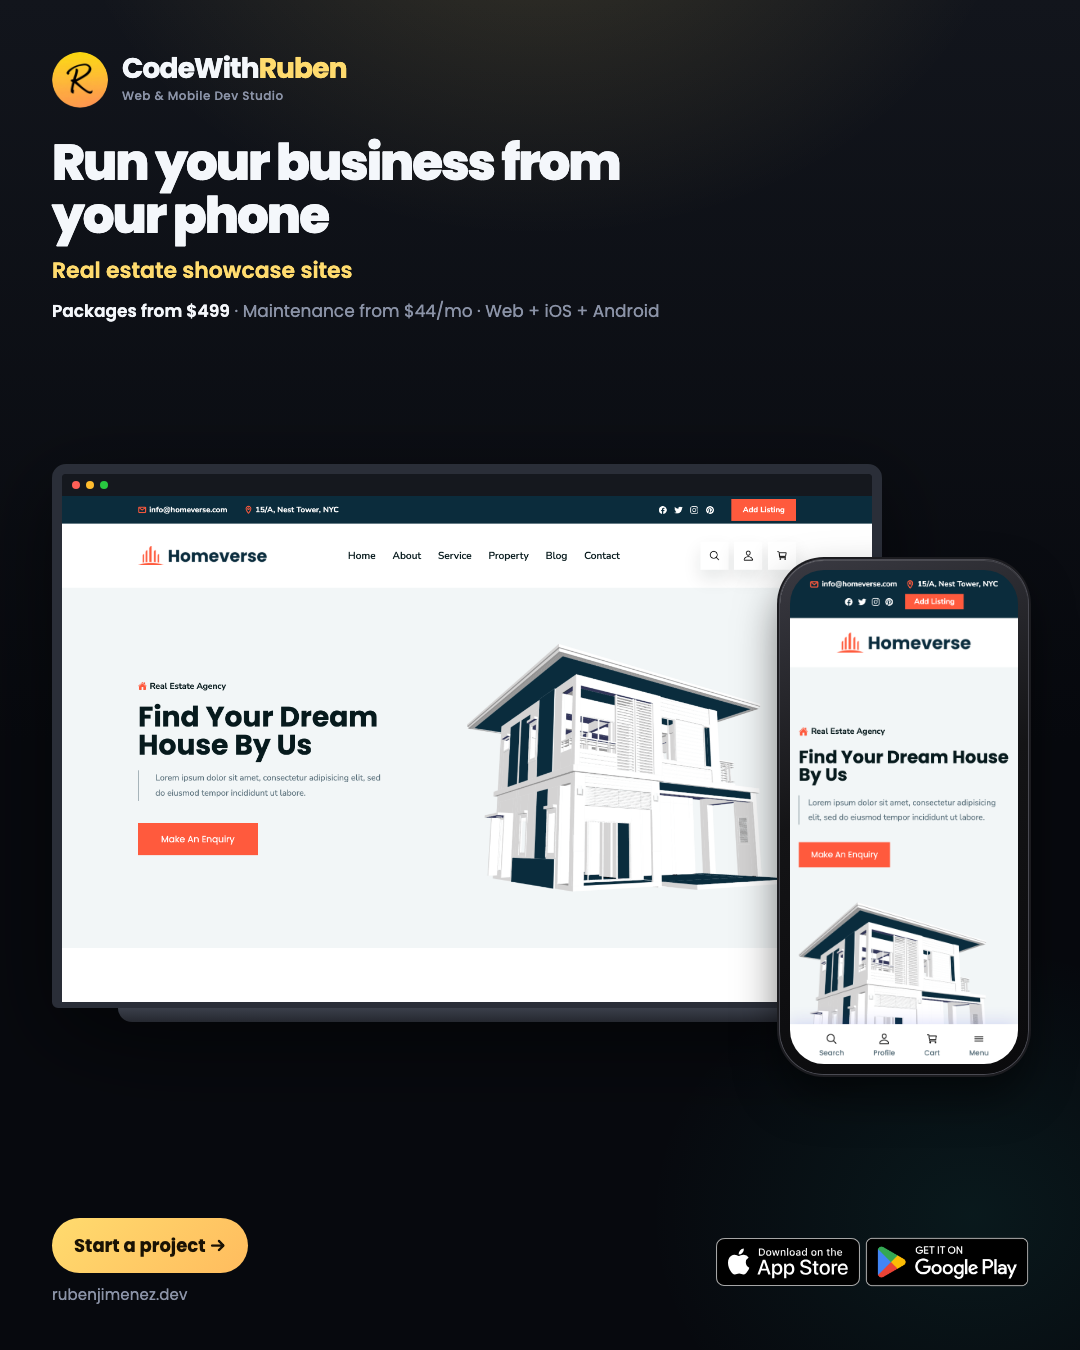
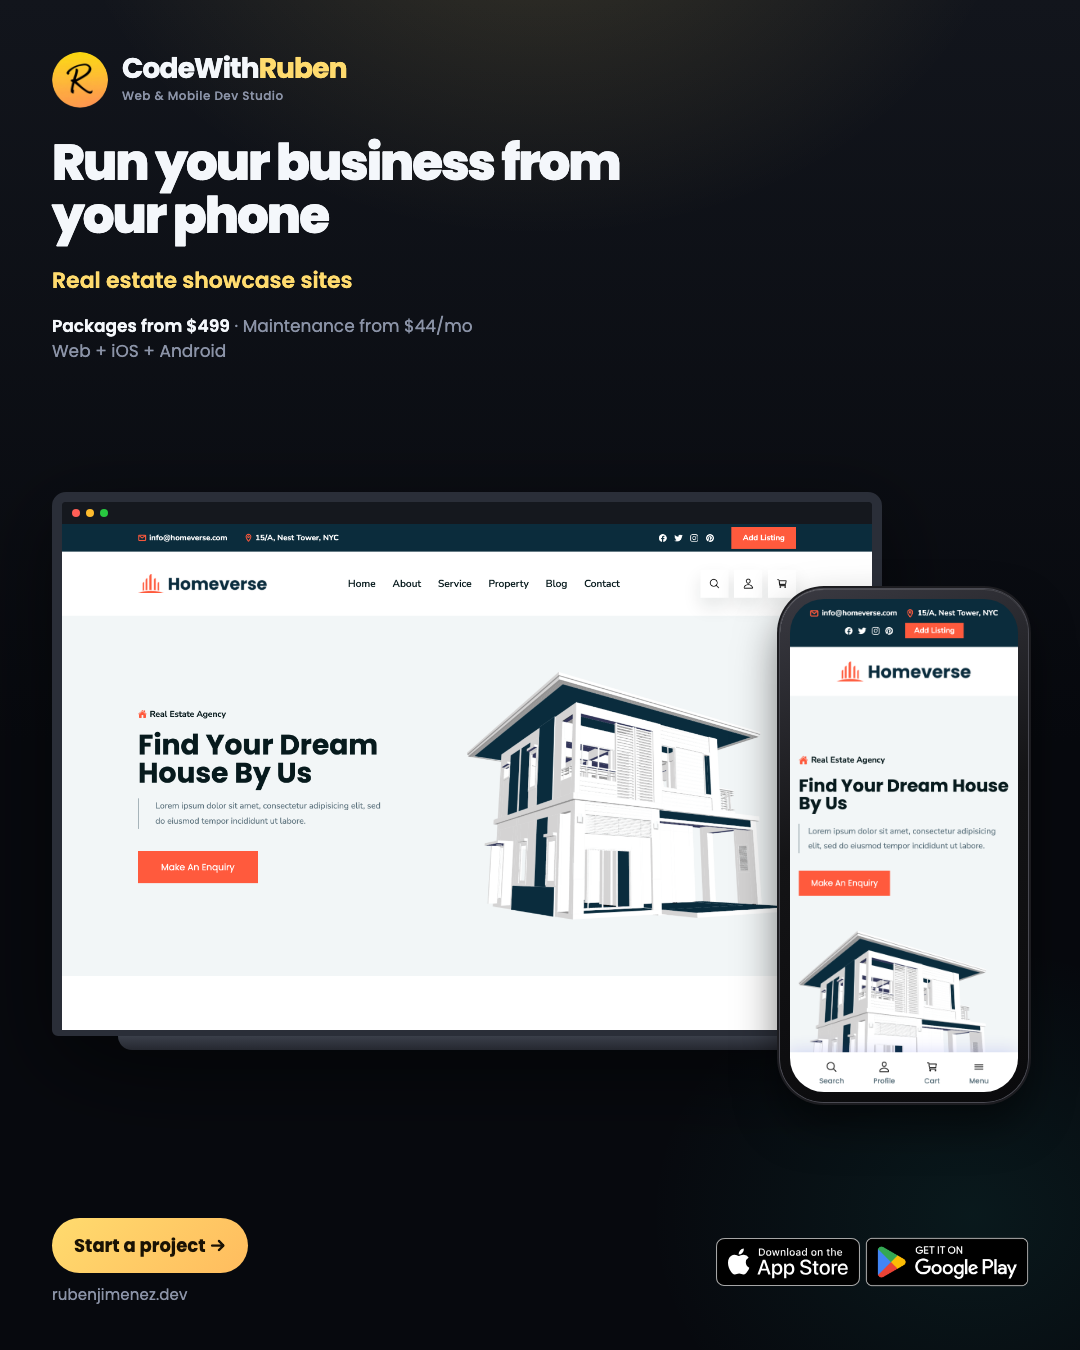
adding new ig post content

diff --git a/examples/instagram/index.html b/examples/instagram/index.html
@@ -37,7 +37,7 @@
       <div class="copy">
         <h2>Run your business from your phone</h2>
         <p class="niche">Booking apps for trade crews</p>
-        <p class="proof"><strong>Packages from $499</strong> · Maintenance from $44/mo · Web + iOS + Android</p>
+        <p class="proof"><strong>Packages from $499</strong> · Maintenance from $44/mo<br>Web + iOS + Android</p>
       </div>
       <div class="devices">
         <div class="stage">
@@ -79,7 +79,7 @@
       <div class="copy">
         <h2>Run your business from your phone</h2>
         <p class="niche">Booking apps for trade crews</p>
-        <p class="proof"><strong>Packages from $499</strong> · Maintenance from $44/mo<br>Fresno-based studio · Web + iOS + Android · Live admin dashboards</p>
+        <p class="proof"><strong>Packages from $499</strong> · Maintenance from $44/mo<br>Web + iOS + Android<br>Fresno-based studio · Live admin dashboards</p>
       </div>
       <div class="devices">
         <div class="stage">

diff --git a/assets/js/ig-posts.js b/assets/js/ig-posts.js
@@ -79,8 +79,8 @@
   function artboardHtml(kind, niche, laptopSrc, phoneSrc) {
     var proof =
       kind === 'story'
-        ? '<strong>Packages from $499</strong> · Maintenance from $44/mo<br>Fresno-based studio · Web + iOS + Android · Live admin dashboards'
-        : '<strong>Packages from $499</strong> · Maintenance from $44/mo · Web + iOS + Android';
+        ? '<strong>Packages from $499</strong> · Maintenance from $44/mo<br>Web + iOS + Android<br>Fresno-based studio · Live admin dashboards'
+        : '<strong>Packages from $499</strong> · Maintenance from $44/mo<br>Web + iOS + Android';
     var lap = laptopSrc || '';
     var pho = phoneSrc || '';
     return (
